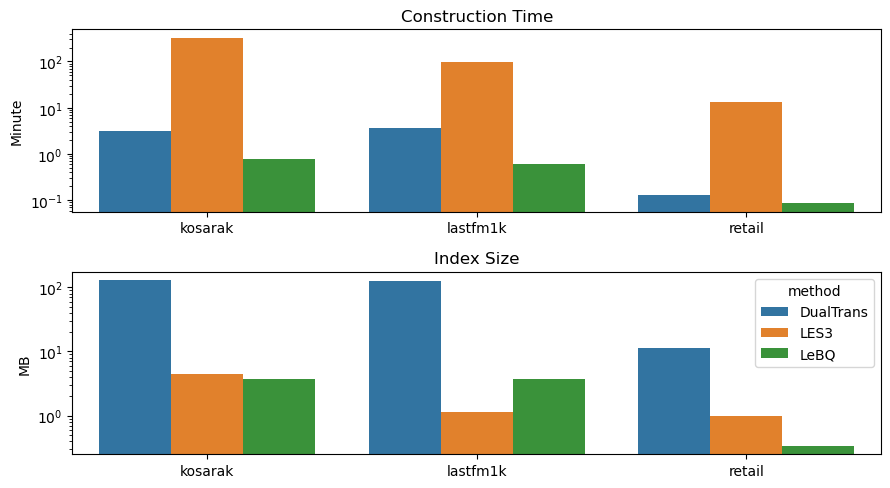
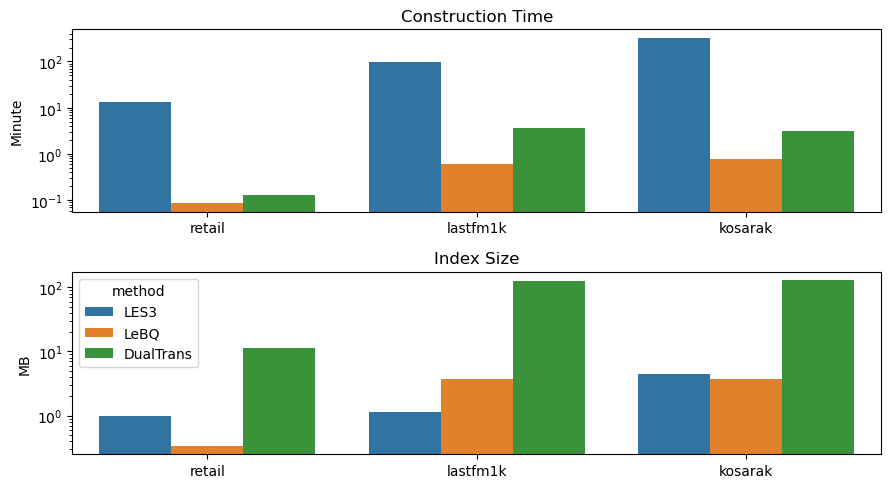
Reorder for visualization purposes

diff --git a/scripts/plot_results.py b/scripts/plot_results.py
@@ -122,21 +122,21 @@ save_pointplot(
 # Construction comparisons
 # -----------------------
 fig, axes = plt.subplots(2, 1, figsize=FIG_SIZE)
-all_comp = []
-for dataset in ["kosarak", "retail", "lastfm1k"]:
+all_comp, datasets, methods = [], ["retail", "lastfm1k", "kosarak"], ["LES3", "LeBQ", "DualTrans"]
+for dataset in datasets:
     comp = pd.read_csv(f"results/index_{dataset}.csv")
     comp["dataset"] = dataset
     all_comp.append(comp)
-comp = pd.concat(all_comp, ignore_index=True)
+comp = pd.concat(all_comp)
 comp_plot = (comp.groupby(["dataset", "method"], as_index=False)[["construction_time_min", "index_size_mb"]].mean())
 
-sns.barplot(data=comp_plot, x="dataset", y="construction_time_min", hue="method", ax=axes[0], legend=False)
+sns.barplot(data=comp_plot, x="dataset", y="construction_time_min", hue="method", hue_order=methods, order=datasets, ax=axes[0], legend=False)
 axes[0].set_title("Construction Time")
 axes[0].set_xlabel(None)
 axes[0].set_ylabel("Minute")
 axes[0].set_yscale("log")
 
-sns.barplot(data=comp_plot, x="dataset", y="index_size_mb", hue="method", ax=axes[1])
+sns.barplot(data=comp_plot, x="dataset", y="index_size_mb", hue="method", hue_order=methods, order=datasets, ax=axes[1])
 axes[1].set_title("Index Size")
 axes[1].set_xlabel(None)
 axes[1].set_ylabel("MB")
